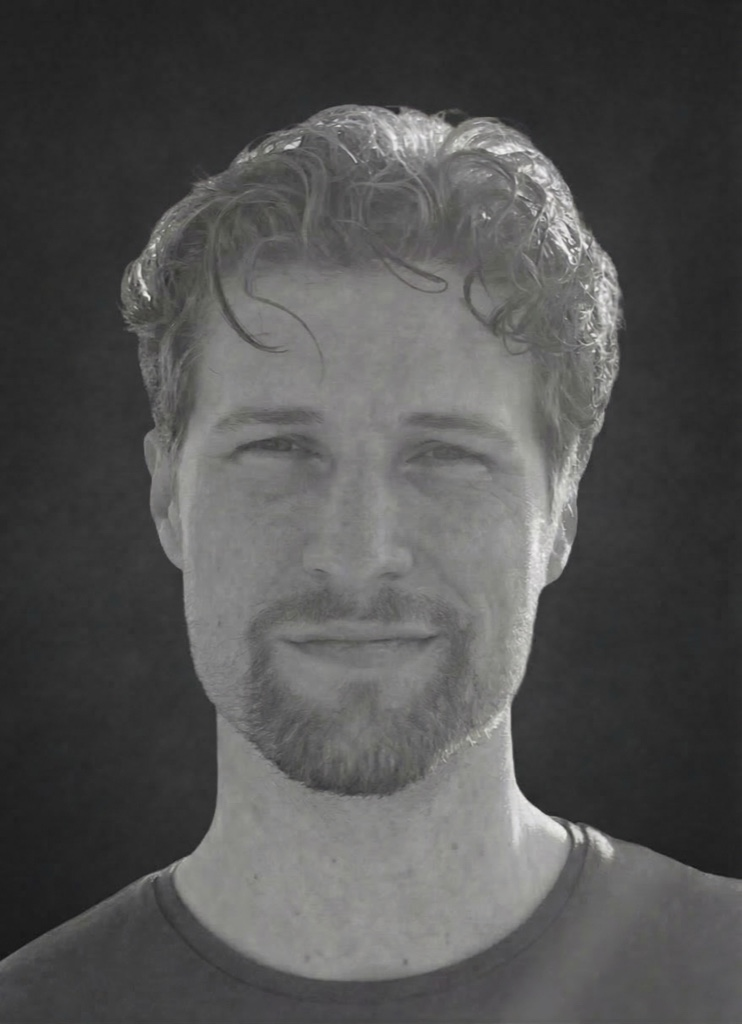
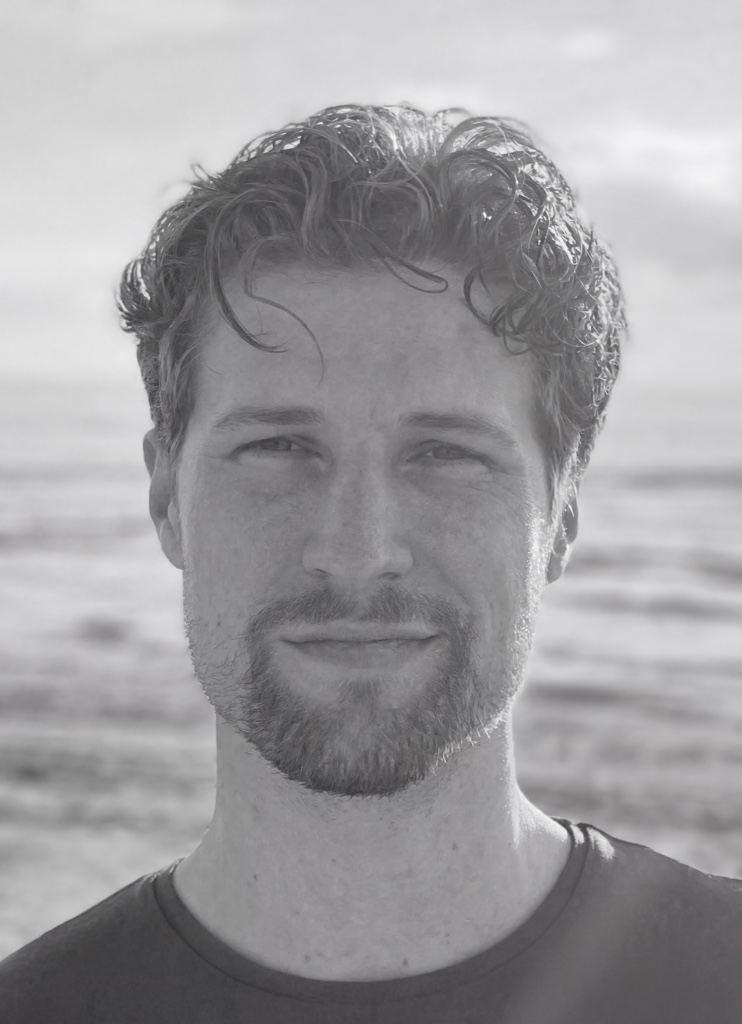
Reorder: Carol→Tomas→Felipe→Cuky→Jaan, revert Tomas to B&W beach, fix Felipe object-top

diff --git a/gymfluence5/index.html b/gymfluence5/index.html
@@ -415,14 +415,9 @@
             </h2>
             <div class="flex justify-center gap-8 lg:gap-12 flex-wrap">
                 <div class="text-center">
-                    <img src="../img/team/jaan.jpg" alt="Jaan" class="w-24 h-24 lg:w-32 lg:h-32 rounded-full object-cover mx-auto mb-4 border border-hermes-charcoal/10">
-                    <p class="font-body text-sm text-hermes-charcoal">Jaan</p>
-                    <p class="font-body text-xs text-hermes-charcoal/50">CEO</p>
-                </div>
-                <div class="text-center">
-                    <img src="../img/team/felipe.jpg" alt="Felipe" class="w-24 h-24 lg:w-32 lg:h-32 rounded-full object-cover mx-auto mb-4 border border-hermes-charcoal/10">
-                    <p class="font-body text-sm text-hermes-charcoal">Felipe</p>
-                    <p class="font-body text-xs text-hermes-charcoal/50">COO</p>
+                    <img src="../img/team/carol.jpg" alt="Carol" class="w-24 h-24 lg:w-32 lg:h-32 rounded-full object-cover mx-auto mb-4 border border-hermes-charcoal/10">
+                    <p class="font-body text-sm text-hermes-charcoal">Carol</p>
+                    <p class="font-body text-xs text-hermes-charcoal/50">Operations</p>
                 </div>
                 <div class="text-center">
                     <img src="../img/team/tomas.jpg" alt="Tomas" class="w-24 h-24 lg:w-32 lg:h-32 rounded-full object-cover mx-auto mb-4 border border-hermes-charcoal/10">
@@ -430,14 +425,19 @@
                     <p class="font-body text-xs text-hermes-charcoal/50">CMO</p>
                 </div>
                 <div class="text-center">
+                    <img src="../img/team/felipe.jpg" alt="Felipe" class="w-24 h-24 lg:w-32 lg:h-32 rounded-full object-cover object-top mx-auto mb-4 border border-hermes-charcoal/10">
+                    <p class="font-body text-sm text-hermes-charcoal">Felipe</p>
+                    <p class="font-body text-xs text-hermes-charcoal/50">COO</p>
+                </div>
+                <div class="text-center">
                     <img src="../img/team/cuky.jpg" alt="Cuky" class="w-24 h-24 lg:w-32 lg:h-32 rounded-full object-cover mx-auto mb-4 border border-hermes-charcoal/10">
                     <p class="font-body text-sm text-hermes-charcoal">Cuky</p>
                     <p class="font-body text-xs text-hermes-charcoal/50">Support</p>
                 </div>
                 <div class="text-center">
-                    <img src="../img/team/carol.jpg" alt="Carol" class="w-24 h-24 lg:w-32 lg:h-32 rounded-full object-cover mx-auto mb-4 border border-hermes-charcoal/10">
-                    <p class="font-body text-sm text-hermes-charcoal">Carol</p>
-                    <p class="font-body text-xs text-hermes-charcoal/50">Operations</p>
+                    <img src="../img/team/jaan.jpg" alt="Jaan" class="w-24 h-24 lg:w-32 lg:h-32 rounded-full object-cover mx-auto mb-4 border border-hermes-charcoal/10">
+                    <p class="font-body text-sm text-hermes-charcoal">Jaan</p>
+                    <p class="font-body text-xs text-hermes-charcoal/50">CEO</p>
                 </div>
             </div>
         </div>

diff --git a/index.html b/index.html
@@ -444,14 +444,9 @@
             </h2>
             <div class="flex justify-center gap-6 lg:gap-10 flex-wrap">
                 <div class="text-center">
-                    <img src="img/team/jaan.jpg" alt="Jaan" class="w-20 h-20 lg:w-24 lg:h-24 rounded-full object-cover mx-auto mb-3">
-                    <p class="font-mono font-bold text-xs text-gf-charcoal">Jaan</p>
-                    <p class="font-mono text-[10px] text-gf-charcoal/50">CEO</p>
-                </div>
-                <div class="text-center">
-                    <img src="img/team/felipe.jpg" alt="Felipe" class="w-20 h-20 lg:w-24 lg:h-24 rounded-full object-cover mx-auto mb-3">
-                    <p class="font-mono font-bold text-xs text-gf-charcoal">Felipe</p>
-                    <p class="font-mono text-[10px] text-gf-charcoal/50">COO</p>
+                    <img src="img/team/carol.jpg" alt="Carol" class="w-20 h-20 lg:w-24 lg:h-24 rounded-full object-cover mx-auto mb-3">
+                    <p class="font-mono font-bold text-xs text-gf-charcoal">Carol</p>
+                    <p class="font-mono text-[10px] text-gf-charcoal/50">Operations</p>
                 </div>
                 <div class="text-center">
                     <img src="img/team/tomas.jpg" alt="Tomas" class="w-20 h-20 lg:w-24 lg:h-24 rounded-full object-cover mx-auto mb-3">
@@ -459,14 +454,19 @@
                     <p class="font-mono text-[10px] text-gf-charcoal/50">CMO</p>
                 </div>
                 <div class="text-center">
+                    <img src="img/team/felipe.jpg" alt="Felipe" class="w-20 h-20 lg:w-24 lg:h-24 rounded-full object-cover object-top mx-auto mb-3">
+                    <p class="font-mono font-bold text-xs text-gf-charcoal">Felipe</p>
+                    <p class="font-mono text-[10px] text-gf-charcoal/50">COO</p>
+                </div>
+                <div class="text-center">
                     <img src="img/team/cuky.jpg" alt="Cuky" class="w-20 h-20 lg:w-24 lg:h-24 rounded-full object-cover mx-auto mb-3">
                     <p class="font-mono font-bold text-xs text-gf-charcoal">Cuky</p>
                     <p class="font-mono text-[10px] text-gf-charcoal/50">Support</p>
                 </div>
                 <div class="text-center">
-                    <img src="img/team/carol.jpg" alt="Carol" class="w-20 h-20 lg:w-24 lg:h-24 rounded-full object-cover mx-auto mb-3">
-                    <p class="font-mono font-bold text-xs text-gf-charcoal">Carol</p>
-                    <p class="font-mono text-[10px] text-gf-charcoal/50">Operations</p>
+                    <img src="img/team/jaan.jpg" alt="Jaan" class="w-20 h-20 lg:w-24 lg:h-24 rounded-full object-cover mx-auto mb-3">
+                    <p class="font-mono font-bold text-xs text-gf-charcoal">Jaan</p>
+                    <p class="font-mono text-[10px] text-gf-charcoal/50">CEO</p>
                 </div>
             </div>
         </div>
